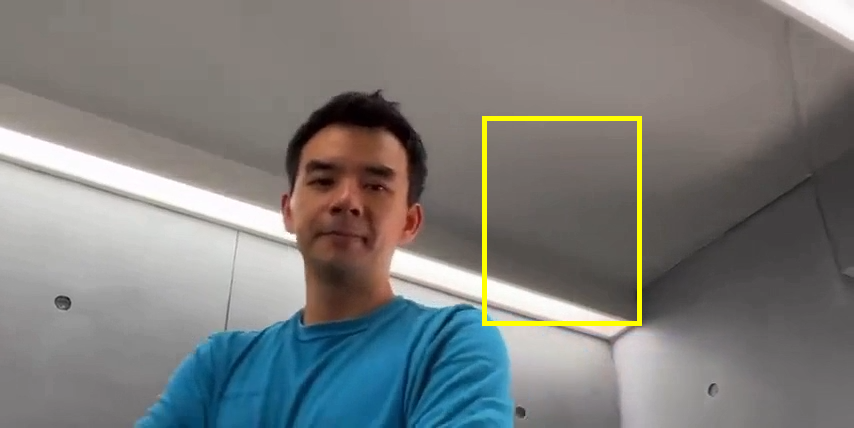
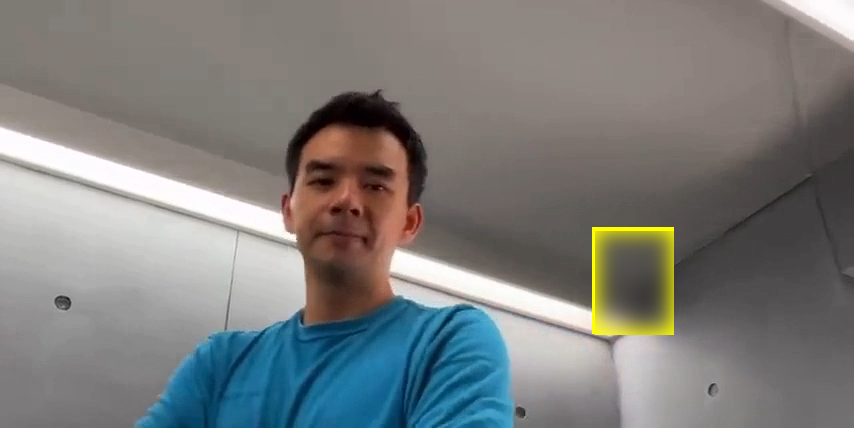
sad/ncc updated with bugs

Changed region(s): [[0.548, 0.2734, 0.7916, 0.7897]]

diff --git a/NccTracking.m b/NccTracking.m
@@ -1,10 +1,49 @@
 nccFrames = frames;
 [height, width, ~, fNum] = size(frames);
-template = double(imread('template.png'));
-[templateH,templateW,~]=size(template);
+templateOri = double(imread('template.png'));
+templateInc = expand(templateOri);
+templateDec = shirnk(templateOri);
+[templateH,templateW,~]=size(templateOri);
+templateHI=templateH*2;
+templateWI=templateW*2;
+templateHD=templateH/2;
+templateWD=templateW/2;
 
-for f = 1:fNum
+for f = 55:fNum
+    ncc=double(zeros((height-(templateH)*2+1)*(width-(templateW)*2+1)+(height-(templateHI)*2+1)*(width-(templateWI)*2+1)+(height-(templateHD)*2+1)*(width-(templateWD)*2+1),3));
     bigImg = frames(:,:,:,f);
+    state=1;
+    [which,ncc]=nccSort(templateOri,which,ncc,height,width,bigImg,state);
+    state=2;
+    [which,ncc]=nccSort(templateDec,which,ncc,height,width,bigImg,state);
+    state=3;
+    [which,ncc]=nccSort(templateInc,which,ncc,height,width,bigImg,state);
+    ncc=sortrows(ncc,'descend');
+    h1=ncc(1,2);
+    w1=ncc(1,3);
+    whichState=ncc(1,4);
+    if whichState==1
+        nccFrames(:,:,:,f) = insertShape(nccFrames(:,:,:,f), 'rectangle', [w1-(templateW+1)/2-1 h1-(templateH+1)/2-1 templateW templateH], 'LineWidth', 5);
+        filename = sprintf('nccFrames/frame%d.png', f);
+        [blurIm,template]=blur(nccFrames(:,:,:,f),h1,w1,templateH,templateW);
+        imwrite(uint8(blurIm), filename);
+    elseif whichState==2
+        nccFrames(:,:,:,f) = insertShape(nccFrames(:,:,:,f), 'rectangle', [w1-(templateWD+1)/2-1 h1-(templateHD+1)/2-1 templateWD templateHD], 'LineWidth', 5);
+        filename = sprintf('nccFrames/frame%d.png', f);
+        [blurIm,template]=blur(nccFrames(:,:,:,f),h1,w1,templateHD,templateWD);
+        imwrite(uint8(blurIm), filename);
+    else
+        nccFrames(:,:,:,f) = insertShape(nccFrames(:,:,:,f), 'rectangle', [w1-(templateWI+1)/2-1 h1-(templateHI+1)/2-1 templateWI templateHI], 'LineWidth', 5);
+        filename = sprintf('nccFrames/frame%d.png', f);
+        [blurIm,template]=blur(nccFrames(:,:,:,f),h1,w1,templateHI,templateWI);
+        imwrite(uint8(blurIm), filename);
+    end
+    
+    disp(whichState);
+end
+
+function [count,ncc]=nccSort(template,which,ncc,height,width,bigImg,state)
+    [templateH,templateW,~]=size(template);
     %template sigma and mean
     tSigmaR=std(template(:,:,1),0,'all');
     tSigmaG=std(template(:,:,2),0,'all');
@@ -12,12 +51,18 @@ for f = 1:fNum
     tMeanR=mean2(template(:,:,1));
     tMeanG=mean2(template(:,:,2));
     tMeanB=mean2(template(:,:,3));
-    which=1;
     %277-24+1,366-35+1
-    ncc=double(zeros((height-(templateH)*2+1)*(width-(templateW)*2+1),3));
     for h=templateH:height-templateH+1
         for w=templateW:width-templateW+1
-            this=double(bigImg(h-((templateH)/2-1):h+((templateH)/2-1),w-((templateW)/2-1):w+((templateW)/2-1),:));
+            if mod(templateH,2)==1
+                templateH=templateH-1;
+            end
+            if mod(templateW,2)==1
+                templateW=templateW-1;
+            end
+            this(:,:,1)=double(bigImg(h-((templateH)/2-1):h+((templateH)/2-1),w-((templateW)/2-1):w+((templateW)/2-1),1));
+            this(:,:,2)=double(bigImg(h-((templateH)/2-1):h+((templateH)/2-1),w-((templateW)/2-1):w+((templateW)/2-1),2));
+            this(:,:,3)=double(bigImg(h-((templateH)/2-1):h+((templateH)/2-1),w-((templateW)/2-1):w+((templateW)/2-1),3));
             %calculate sigma for bigImg
             SigmaR=std(this(:,:,1),0,'all');
             SigmaG=std(this(:,:,2),0,'all');
@@ -38,17 +83,9 @@ for f = 1:fNum
             ncc(which,1)=temp/(templateH*templateW-1);
             ncc(which,2)=h;
             ncc(which,3)=w;
+            ncc(which,4)=state;
             which=which+1;
         end
     end
-    ncc=sortrows(ncc,'descend');
-    h1=ncc(1,2);
-    w1=ncc(1,3);
-    nccFrames(:,:,:,f) = insertShape(nccFrames(:,:,:,f), 'rectangle', [w1-(templateW+1)/2-1 h1-(templateH+1)/2-1 templateW templateH], 'LineWidth', 5);
-    filename = sprintf('nccFrames/frame%d.png', f);
-    [blurIm,template]=blur(nccFrames(:,:,:,f),h1,w1,templateH,templateW);
-    imwrite(uint8(blurIm), filename);
-    
+    count=which;
 end
-
-

diff --git a/SadTracking.m b/SadTracking.m
@@ -1,14 +1,43 @@
 sadFrames = frames;
 [height, width, ~, fNum] = size(frames);
-template = double(imread('template.png'));
-[templateH,templateW,~]=size(template);
+templateOri = double(imread('template.png'));
+templateInc = expand(templateOri);
+templateDec = shirnk(templateOri);
+[templateH,templateW,~]=size(templateOri);
+templateHI=templateH*2;
+templateWI=templateW*2;
+templateHD=templateH/2;
+templateWD=templateW/2;
 
 for f = 1:fNum
-    bigImg = frames(:,:,:,f);
-    which=1;
     sad=double(zeros((height-(templateH)*2+1)*(width-(templateW)*2+1),3));
+    bigImg = frames(:,:,:,f);
+    state=1;
+    [which,sad]=sadSort(templateOri,which,sad,height,width,bigImg,state);
+    state=2;
+    [which,sad]=sadSort(templateDec,which,sad,height,width,bigImg,state);
+    state=3;
+    [which,sad]=sadSort(templateInc,which,sad,height,width,bigImg,state);
+    
+    sad=sortrows(sad,'ascend');
+    h1=sad(1,2);
+    w1=sad(1,3);
+    sadFrames(:,:,:,f) = insertShape(sadFrames(:,:,:,f), 'rectangle', [w1-(templateW+1)/2-1 h1-(templateH+1)/2-1 templateW templateH], 'LineWidth', 5);
+    filename = sprintf('sadFrames/frame%d.png', f);
+    [blurIm,template]=blur(sadFrames(:,:,:,f),h1,w1,templateH,templateW);
+    imwrite(uint8(blurIm), filename);
+   
+end
+function [count,sad]=sadSort(template,which,sad,height,width,bigImg,state)
+    [templateH,templateW,~]=size(template);
     for h=templateH:height-templateH+1
         for w=templateW:width-templateW+1
+            if mod(templateH,2)==1
+                templateH=templateH-1;
+            end
+            if mod(templateW,2)==1
+                templateW=templateW-1;
+            end
             this=double(bigImg(h-((templateH)/2-1):h+((templateH)/2-1),w-((templateW)/2-1):w+((templateW)/2-1),:));
             temp=0;
             for i=1:templateH-1
@@ -21,17 +50,11 @@ for f = 1:fNum
             sad(which,1)=temp;
             sad(which,2)=h;
             sad(which,3)=w;
+            sad(which,4)=state;
+            which=which+1;
             which=which+1;
         end
     end
-    sad=sortrows(sad,'ascend');
-    h1=sad(1,2);
-    w1=sad(1,3);
-    sadFrames(:,:,:,f) = insertShape(sadFrames(:,:,:,f), 'rectangle', [w1-(templateW+1)/2-1 h1-(templateH+1)/2-1 templateW templateH], 'LineWidth', 5);
-    filename = sprintf('sadFrames/frame%d.png', f);
-    [blurIm,template]=blur(sadFrames(:,:,:,f),h1,w1,templateH,templateW);
-    imwrite(uint8(blurIm), filename);
-   
+    count=which;
 end
-
 

diff --git a/blur.m b/blur.m
@@ -1,7 +1,7 @@
 function [output,template]=blur(image,y,x,radiusy,radiusx)
     sigma=10.0; % use different values
     G = fspecial('gaussian', 2*ceil(3*sigma)+1, sigma);
-    template=double(image((y-radiusy/2):(y+radiusy/2),(x-radiusx/2):(x+radiusx/2),:));
+    template=double(image((y-1-radiusy/2):(y-1+radiusy/2),(x-1-radiusx/2):(x-1+radiusx/2),:));
     blurIm=imfilter(template, G, 'replicate');
     output=image;
     output((y-radiusy/2):(y+radiusy/2),(x-radiusx/2):(x+radiusx/2),:)=blurIm;
